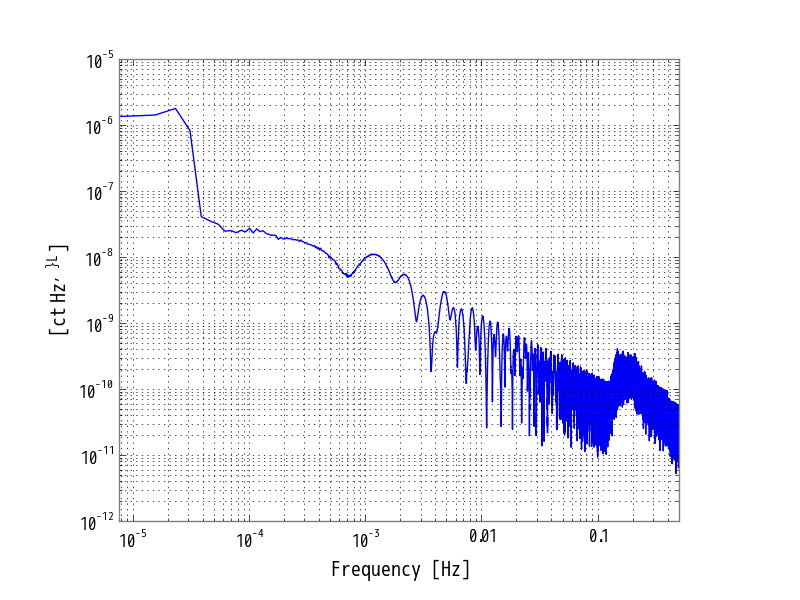
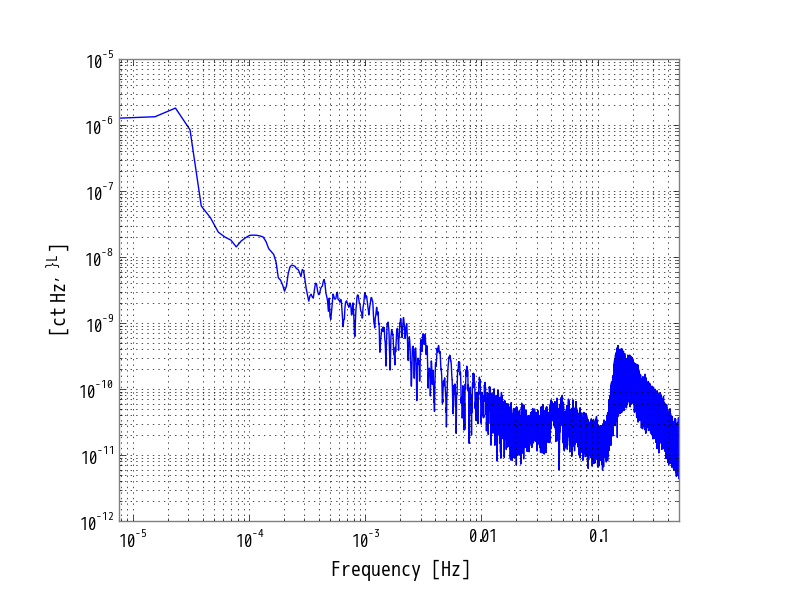
Update

diff --git a/ugm/strainmeter/main.py b/ugm/strainmeter/main.py
@@ -20,7 +20,7 @@ def nan_helper(y):
 
 start = tconvert('Nov 18 2019 00:00:00 JST')
 end   = tconvert('Nov 21 2019 00:00:00 JST')
-start = tconvert('Oct 22 2019 00:00:00 JST')
+start = tconvert('Oct 22 2019 12:00:00 JST')
 end   = tconvert('Oct 27 2019 12:00:00 JST')
 chname = ['K1:GIF-X_STRAIN_OUT_DQ.mean']
 fnamelist = existedfilelist(start,end,trend='second')
